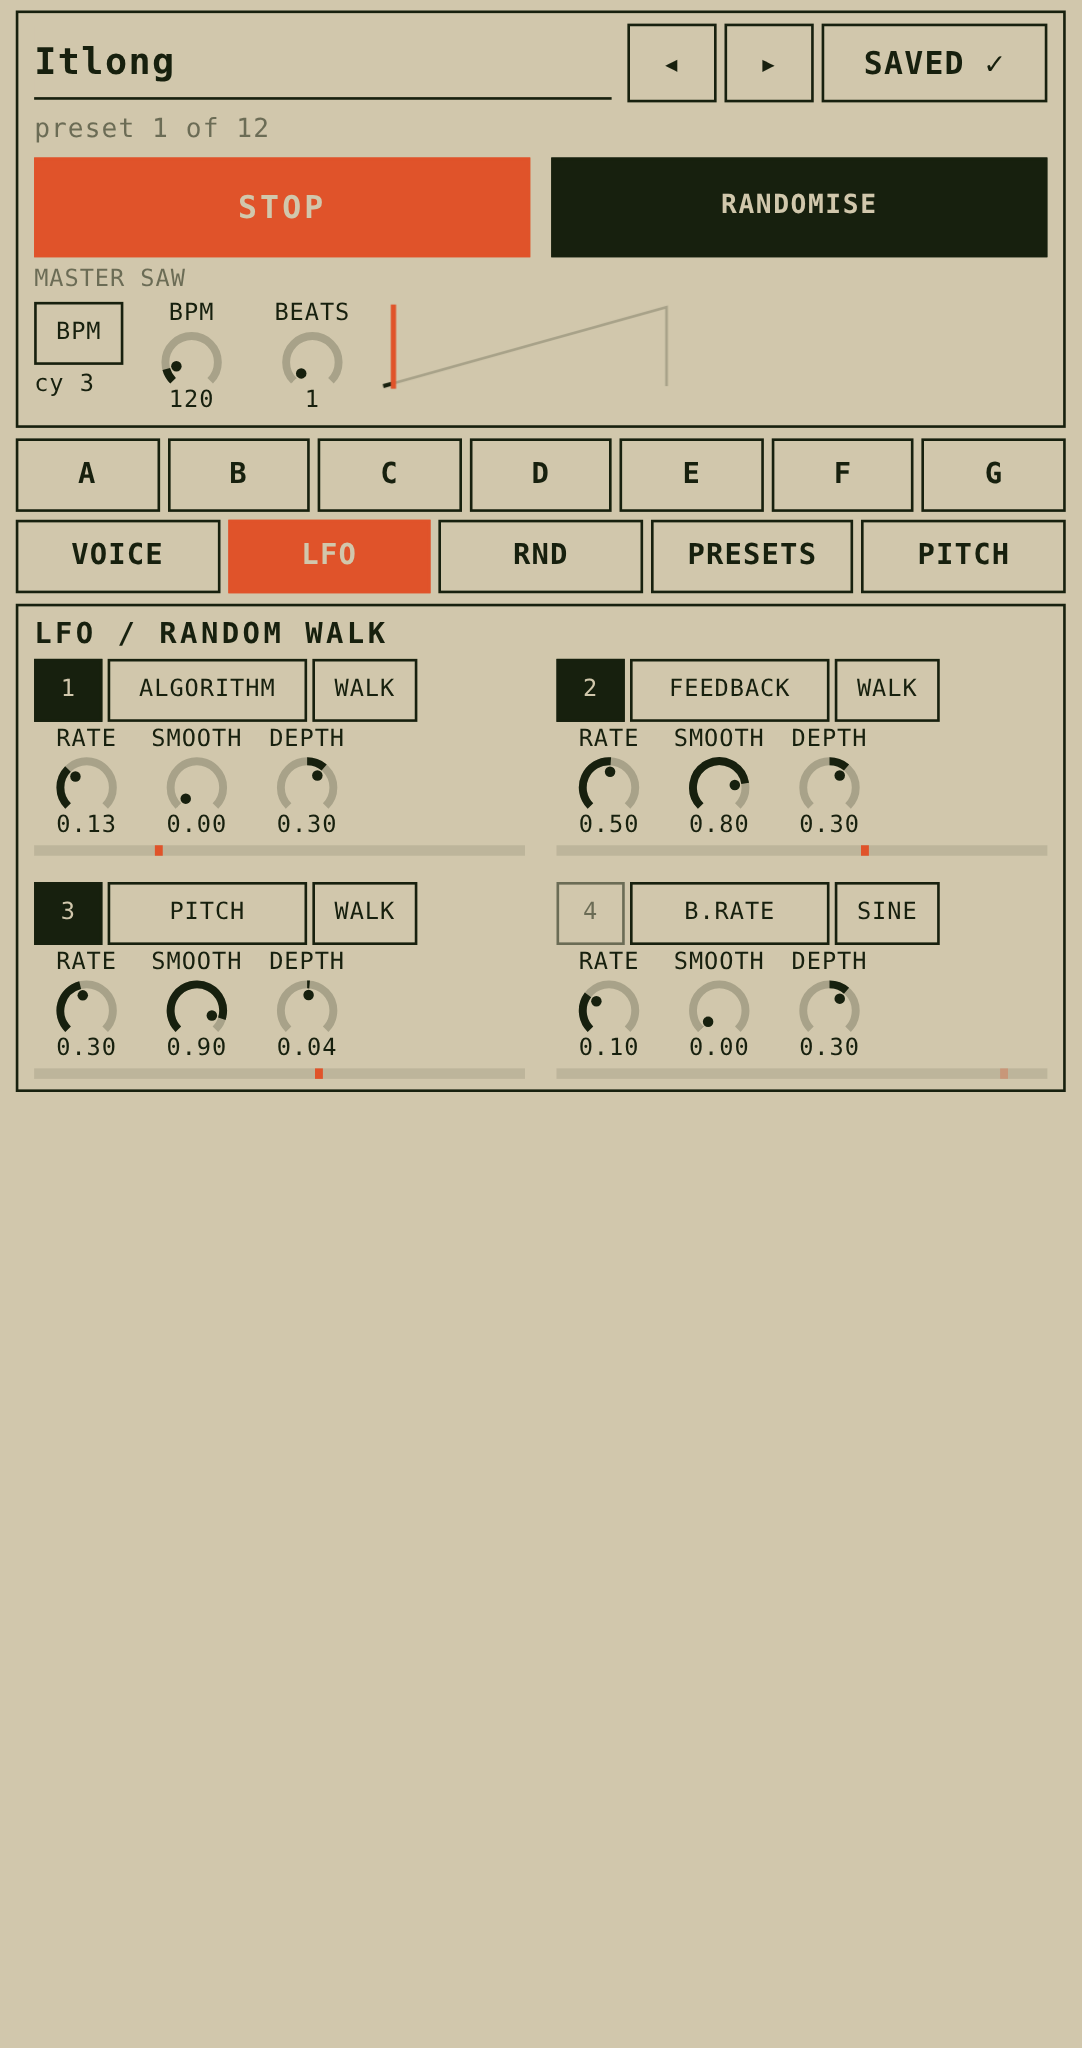
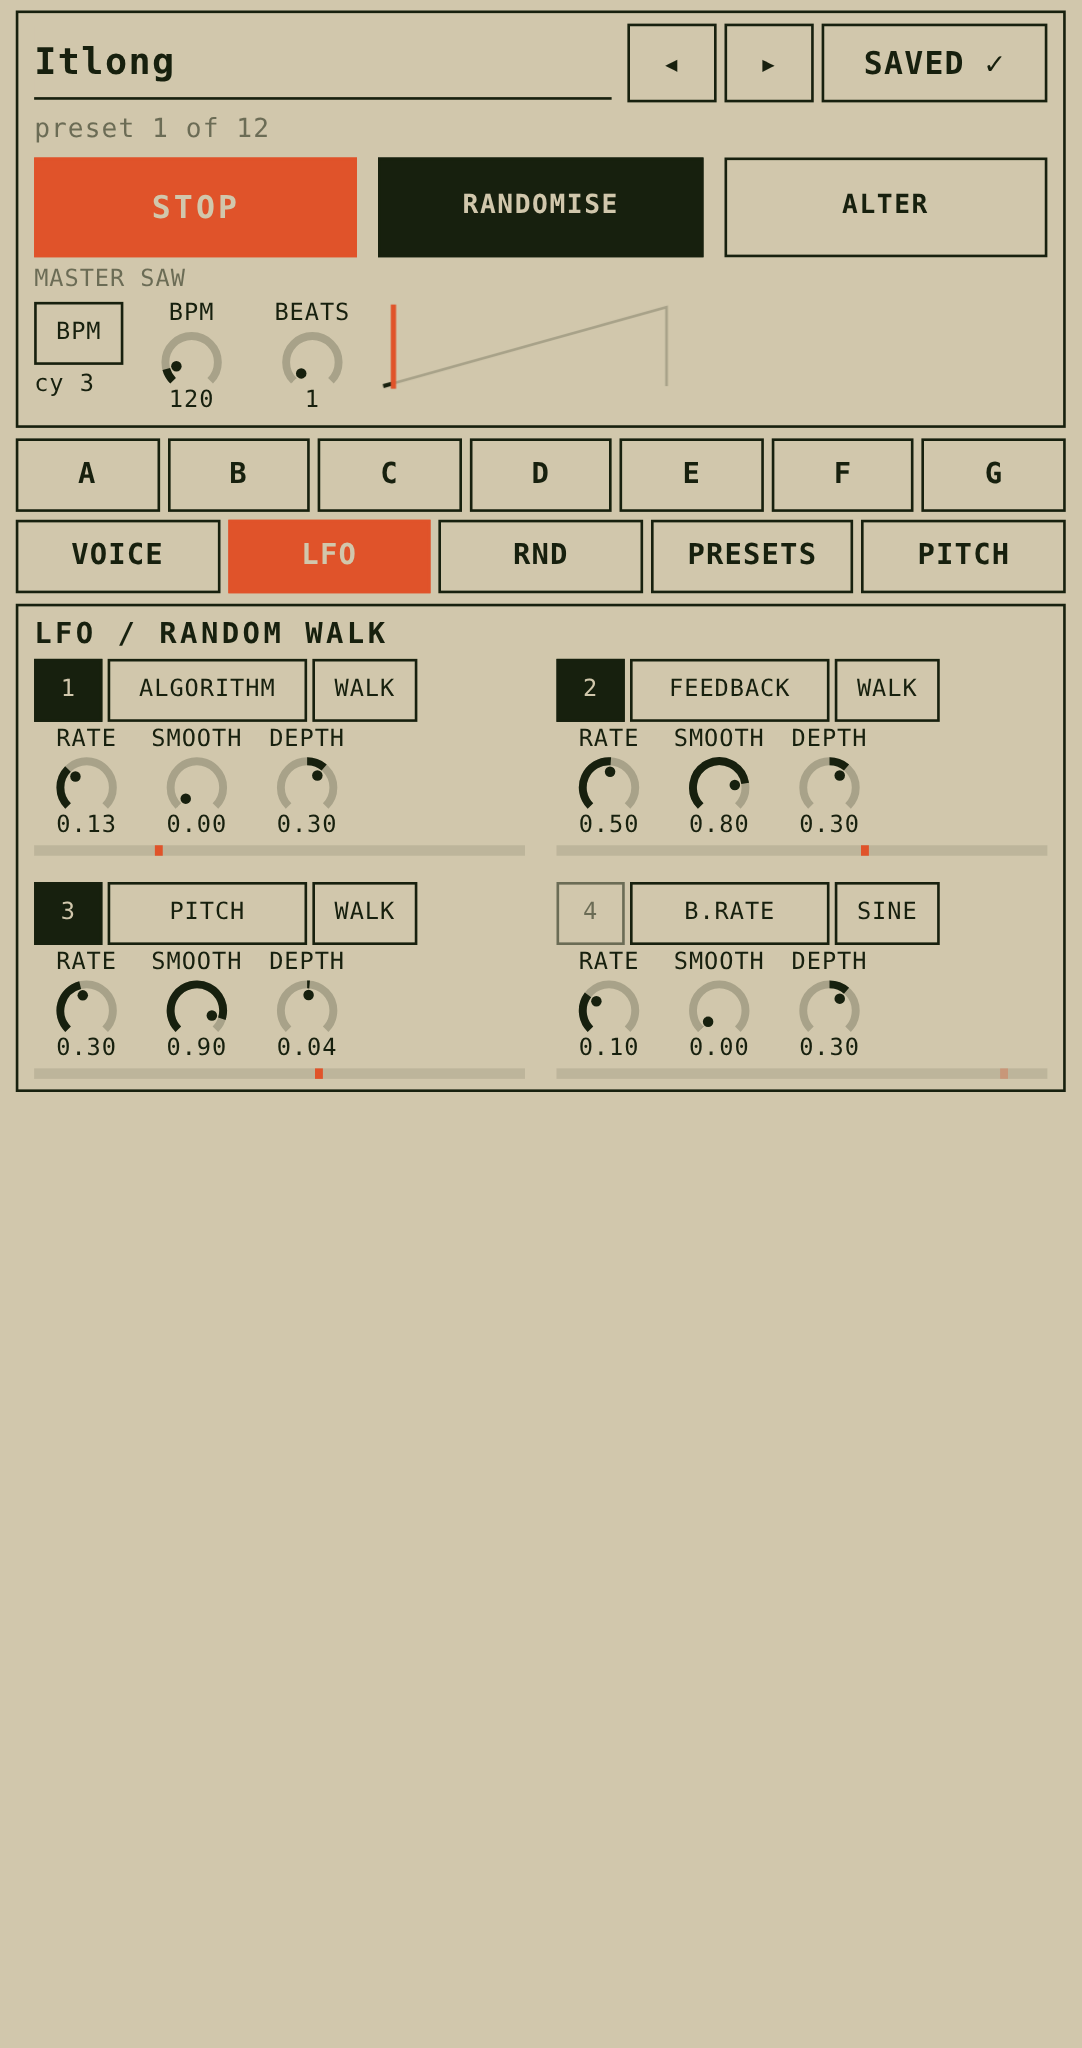
ALTER button: nudge every continuous setting a tiny amount
Claude-Session: https://claude.ai/code/session_018ENZqT8uPXUg66LybqJ133

Changed region(s): [[0.6405, 0.0625, 0.976, 0.125], [0.1525, 0.0625, 0.5795, 0.125]]

diff --git a/ui/app.js b/ui/app.js
@@ -5,7 +5,7 @@ import {
 } from '../dsp/params.js';
 import { SHAPES, shapeValue } from '../dsp/shapes.js';
 import { Rng, hashSeed } from '../dsp/rng.js';
-import { randomizePath, randomizeSection, fillSteps, rndLocks, rndAll, morphPatches, randomLockValue, randomizeEverything } from '../dsp/random.js';
+import { randomizePath, randomizeSection, fillSteps, rndLocks, rndAll, morphPatches, randomLockValue, randomizeEverything, alterEverything } from '../dsp/random.js';
 import { presetName } from './names.js';
 import { el, knob, selector, toggle, button, hiCanvas, toNorm, fromNorm, RATIO_STEPS } from './widgets.js';
 
@@ -181,6 +181,8 @@ const startBtn = button(top, 'START', startStop, 'space');
 startBtn.id = 'start';
 const bigRnd = button(top, 'RANDOMISE', () => randomiseAll(), 'randomise everything, ignoring locks, with a new name (R)');
 bigRnd.id = 'bigrnd';
+const alterBtn = button(top, 'ALTER', () => alterAll(), 'nudge every setting a tiny amount, keeping the sound (A)');
+alterBtn.id = 'alter';
 const pitchBtn = button(top, 'PITCH', () => { document.getElementById('app').classList.toggle('pitch-open'); refreshAll(); }, 'operator pitch faders');
 pitchBtn.id = 'pitchbtn';
 ctx.register(() => pitchBtn.classList.toggle('on', document.getElementById('app').classList.contains('pitch-open')));
@@ -555,6 +557,13 @@ function randomiseAll() {
   randomizeEverything(patch, new Rng(hashSeed(patch.seed, 'everything')));
   changed(true);
   ui.presetDirty = true;
+}
+function alterAll() {
+  pushUndo();
+  alterEverything(patch, new Rng((Math.random() * 4294967296) >>> 0), 0.03);
+  changed(true);
+  ui.presetDirty = true;
+  flash('altered');
 }
 function rndEverything(rename) {
   pushUndo();
@@ -1078,6 +1087,7 @@ window.addEventListener('keydown', (e) => {
   if (e.target instanceof HTMLInputElement) return;
   if (e.code === 'Space') { e.preventDefault(); startStop(); }
   else if (e.key === 'r' && !e.ctrlKey && !e.metaKey) randomiseAll();
+  else if (e.key === 'a' && !e.ctrlKey && !e.metaKey) alterAll();
   else if ((e.ctrlKey || e.metaKey) && e.key.toLowerCase() === 's') { e.preventDefault(); savePreset(); }
   else if ((e.ctrlKey || e.metaKey) && e.key.toLowerCase() === 'z') { e.preventDefault(); if (e.shiftKey) redo(); else undo(); }
   else if ((e.ctrlKey || e.metaKey) && e.key.toLowerCase() === 'y') { e.preventDefault(); redo(); }

diff --git a/dsp/random.js b/dsp/random.js
@@ -270,3 +270,35 @@ export function randomizeEverything(patch, rng) {
   patch.clock.gate = patch.clock.gate.map((_, k) => k === 0 || rng.next() < 0.4);
   patch.rnd.algoChance = round4(rng.next() < 0.5 ? 0 : rng.range(0, 0.3));
 }
+
+// ---------- alter ----------
+// Nudge every continuous value a little: amount is the typical move as a fraction of each parameter's range
+// (log-scaled for log parameters). Choices, step counts, ratios and clock multipliers stay as they are, so the
+// sound keeps its character; operator pitch only moves by a few cents through 'fine'. Output level is left alone.
+export function alterEverything(patch, rng, amount = 0.03) {
+  const nudge = () => (rng.next() + rng.next() - 1) * 2 * amount; // triangular, -2a..2a, mostly small
+  for (const spec of PARAM_SPECS) {
+    if (spec.nornd || (spec.type !== 'lin' && spec.type !== 'log')) continue;
+    const cur = getPath(patch, spec.path);
+    if (typeof cur !== 'number' || !isFinite(cur)) continue;
+    let v;
+    if (spec.type === 'log') {
+      const lr = Math.log(spec.max) - Math.log(spec.min);
+      v = Math.exp(Math.log(Math.max(spec.min, cur)) + nudge() * lr * 0.5);
+    } else {
+      const d = spec.path.endsWith('.fine') ? 0.1 : 1; // keep pitch moves to a few cents
+      v = cur + nudge() * (spec.max - spec.min) * 0.5 * d;
+    }
+    setPath(patch, spec.path, round4(Math.max(spec.min, Math.min(spec.max, v))));
+  }
+  for (const op of patch.ops) {
+    for (const st of op.steps) {
+      if (st.depth !== 0) {
+        const s = Math.sign(st.depth);
+        st.depth = round4(s * Math.max(0.05, Math.min(1, Math.abs(st.depth) + nudge())));
+      }
+      if (st.prob < 1) st.prob = round4(Math.max(0.05, Math.min(1, st.prob + nudge())));
+      if (st.ratchetProb < 1) st.ratchetProb = round4(Math.max(0.05, Math.min(1, st.ratchetProb + nudge())));
+    }
+  }
+}

diff --git a/ui/style.css b/ui/style.css
@@ -73,6 +73,8 @@ input.num:focus { border-color: var(--spot); }
 #bigrnd { width: 82px; height: 44px; line-height: 42px; font-size: 10px; font-weight: 700;
   letter-spacing: 0.06em; background: var(--ink); color: var(--bg); }
 #bigrnd:active { background: var(--spot); border-color: var(--spot); }
+#alter { width: 58px; height: 44px; line-height: 42px; font-size: 10px; font-weight: 700; letter-spacing: 0.06em; }
+#alter:active { background: var(--spot); border-color: var(--spot); color: var(--bg); }
 .brand small { display: block; font-weight: 400; font-size: 8px; letter-spacing: 0.08em; color: var(--mid); margin-top: 3px; }
 canvas { display: block; }
 
@@ -155,7 +157,7 @@ canvas { display: block; }
   .presetbar .savebtn { min-width: 86px; font-weight: 700; }
   .savestate { flex: 1 1 100%; font-size: 10px; margin-top: 0; }
   .pname { margin-top: 0; flex: 1; width: auto; min-width: 0; font-size: 14px; height: 28px; }
-  #start, #bigrnd { flex: 1 1 40%; height: 38px; line-height: 36px; }
+  #start, #bigrnd, #alter { flex: 1 1 22%; height: 38px; line-height: 36px; }
   #top > .col { flex: none; }
   .algos { display: grid; position: static; transform: none; grid-template-columns: repeat(8, 1fr); gap: 3px; padding: 0; border: 0; }
   .algocur .btn:last-child { display: none; }

diff --git a/index.html b/index.html
@@ -14,7 +14,7 @@
   <section id="pitch" data-pane="pitch"></section>
   <footer id="bottom"></footer>
 </div>
-<div id="hint">space start/stop · r randomise · ctrl-s save preset · drag knobs (alt fine) · shift-click any control = rnd · dbl-click = default · steps: drag depth, right-click/long-press shape, shift-click skip, alt-click repeat · ctrl-z / ctrl-shift-z</div>
+<div id="hint">space start/stop · r randomise · a alter · ctrl-s save preset · drag knobs (alt fine) · shift-click any control = rnd · dbl-click = default · steps: drag depth, right-click/long-press shape, shift-click skip, alt-click repeat · ctrl-z / ctrl-shift-z</div>
 <script type="module" src="ui/app.js"></script>
 </body>
 </html>

diff --git a/README.md b/README.md
@@ -22,6 +22,7 @@ with no DOM use, ready to port to C++/JUCE.
   clocks, jump sets, gate row and modulators, and gives the patch a new generated name. RND ALL respects the locks.
 - On phones (under 760px wide, e.g. Pixel 9a portrait) everything fits one screen with no scrolling: tabs A B C D
   (one operator each), VOICE, LFO and RND. The top bar (start, randomise, name, master saw) is always visible.
+- ALTER (or the A key) nudges every continuous setting a tiny amount (levels, decays, pans, LFOs, rates, step depths and chances, a few cents of fine tune) and leaves the algorithm, ratios and patterns alone. Undo works.
 - Seven operators, A to G, with 32 seven-operator algorithms (◂ ▸ or ALL to pick); feedback is on G.
 - Stereo: every carrier is a left/right pair. Each operator's pan sets which side of the pair it modulates
   (a modulator panned left bends only the left carrier), and for carriers it is their placement. On top, the
